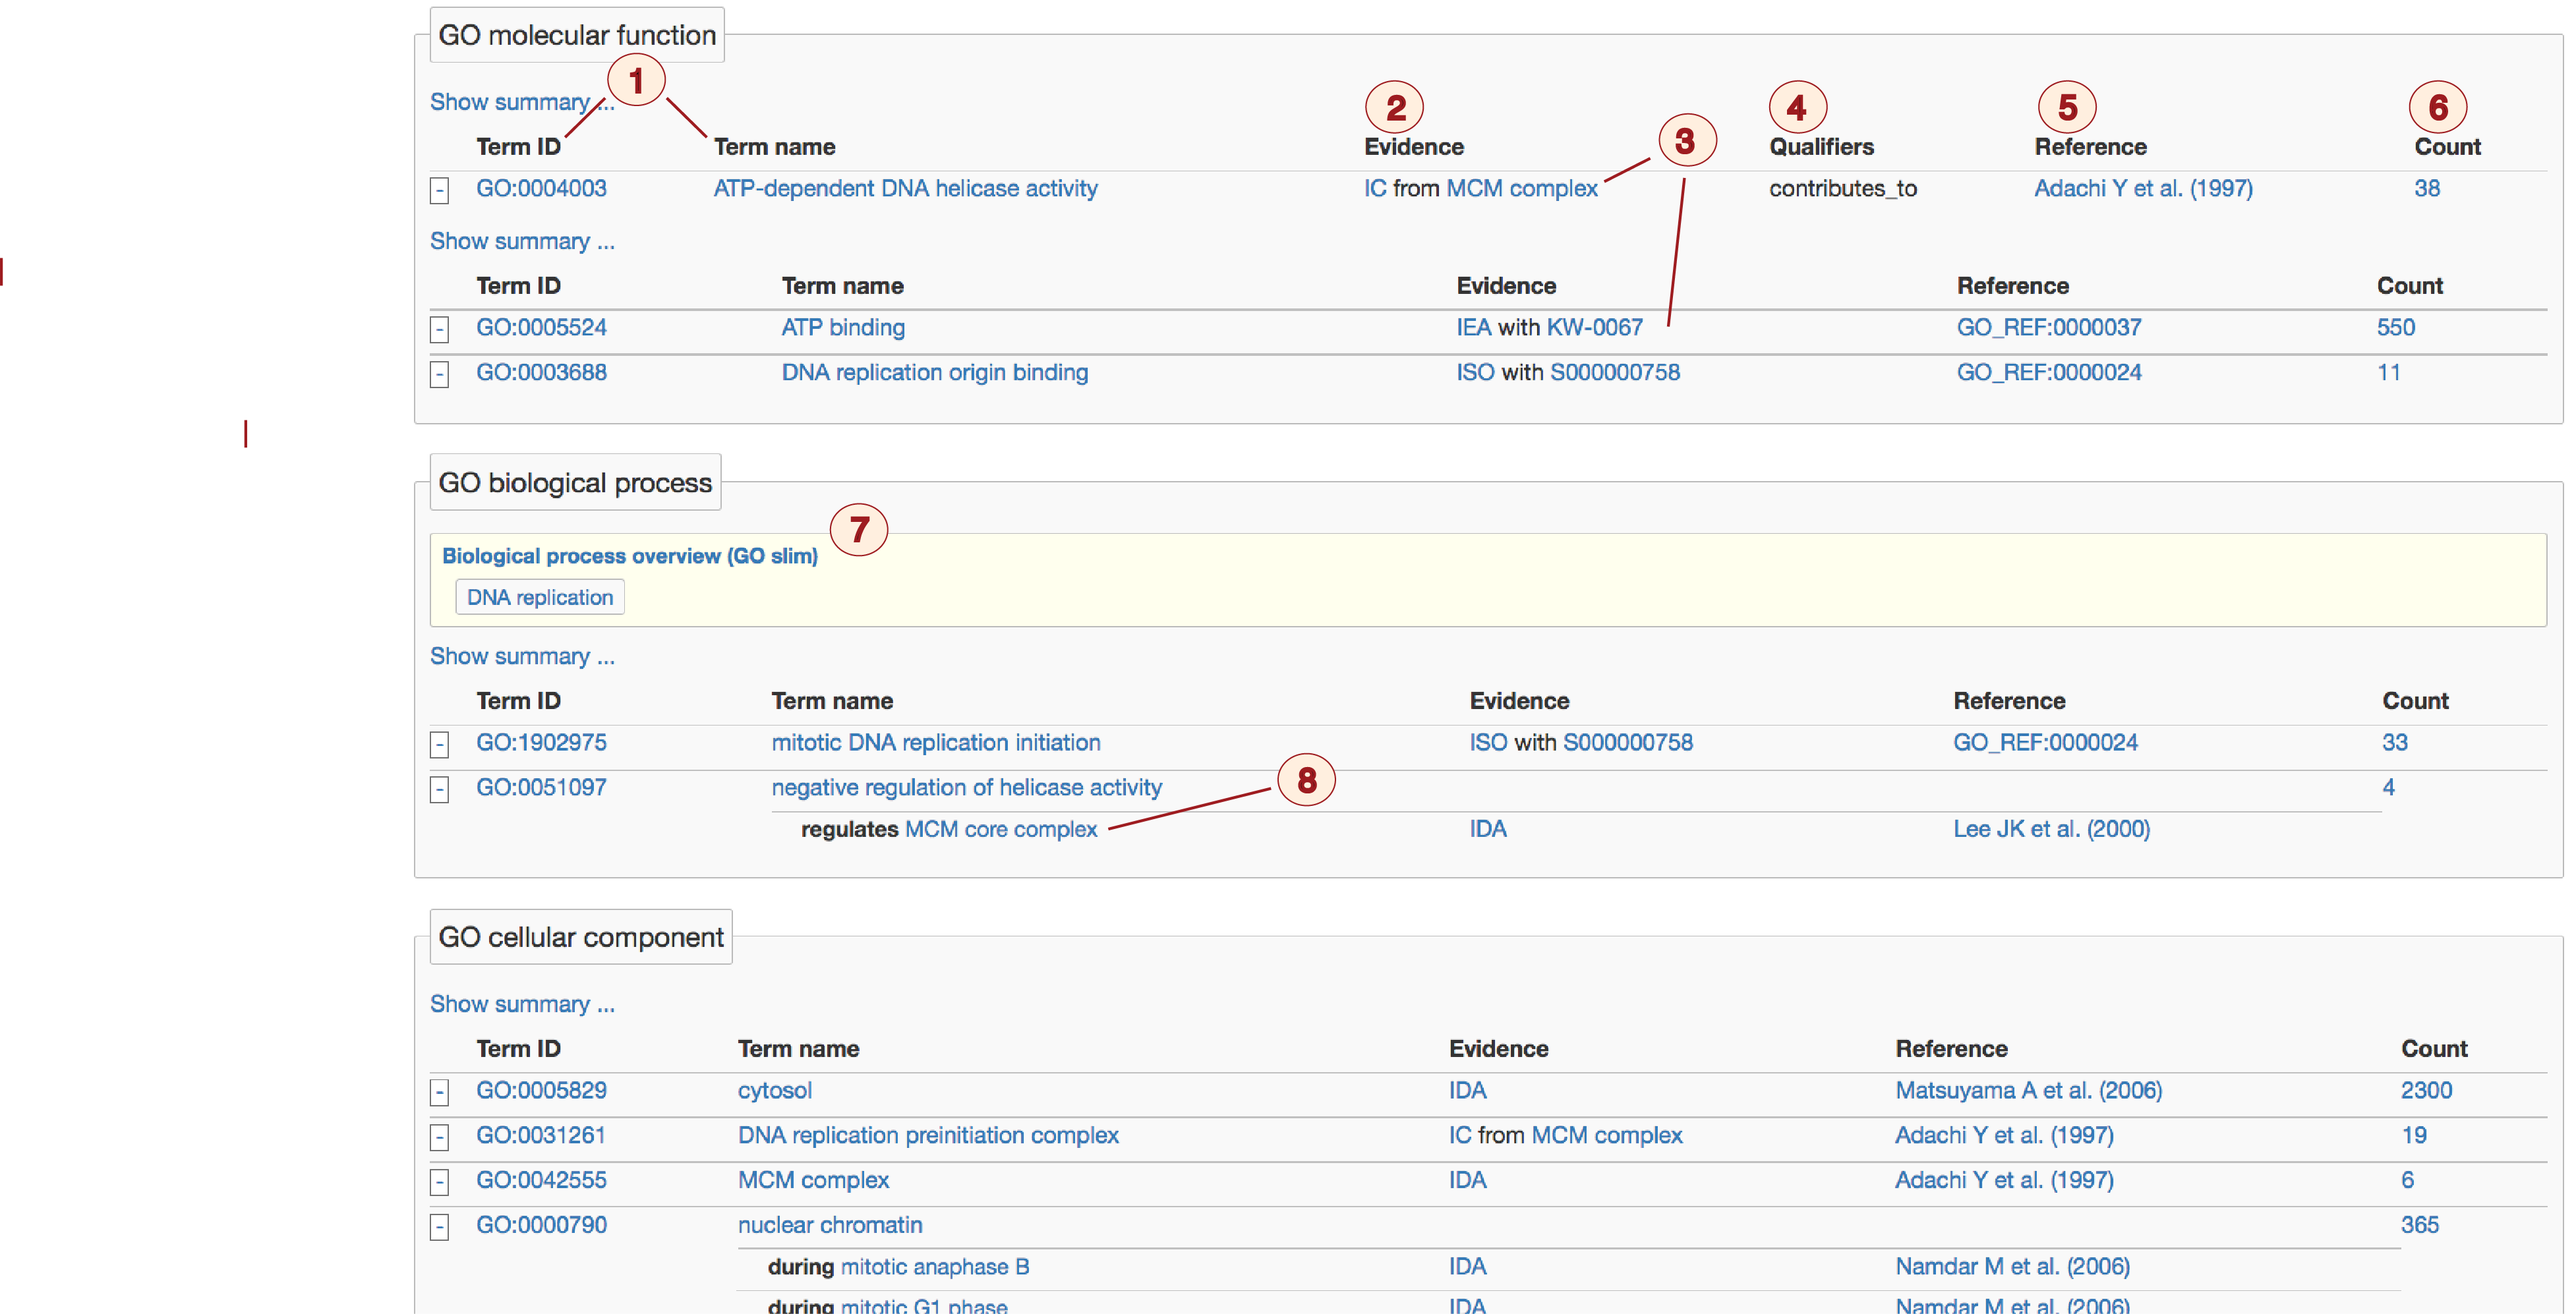
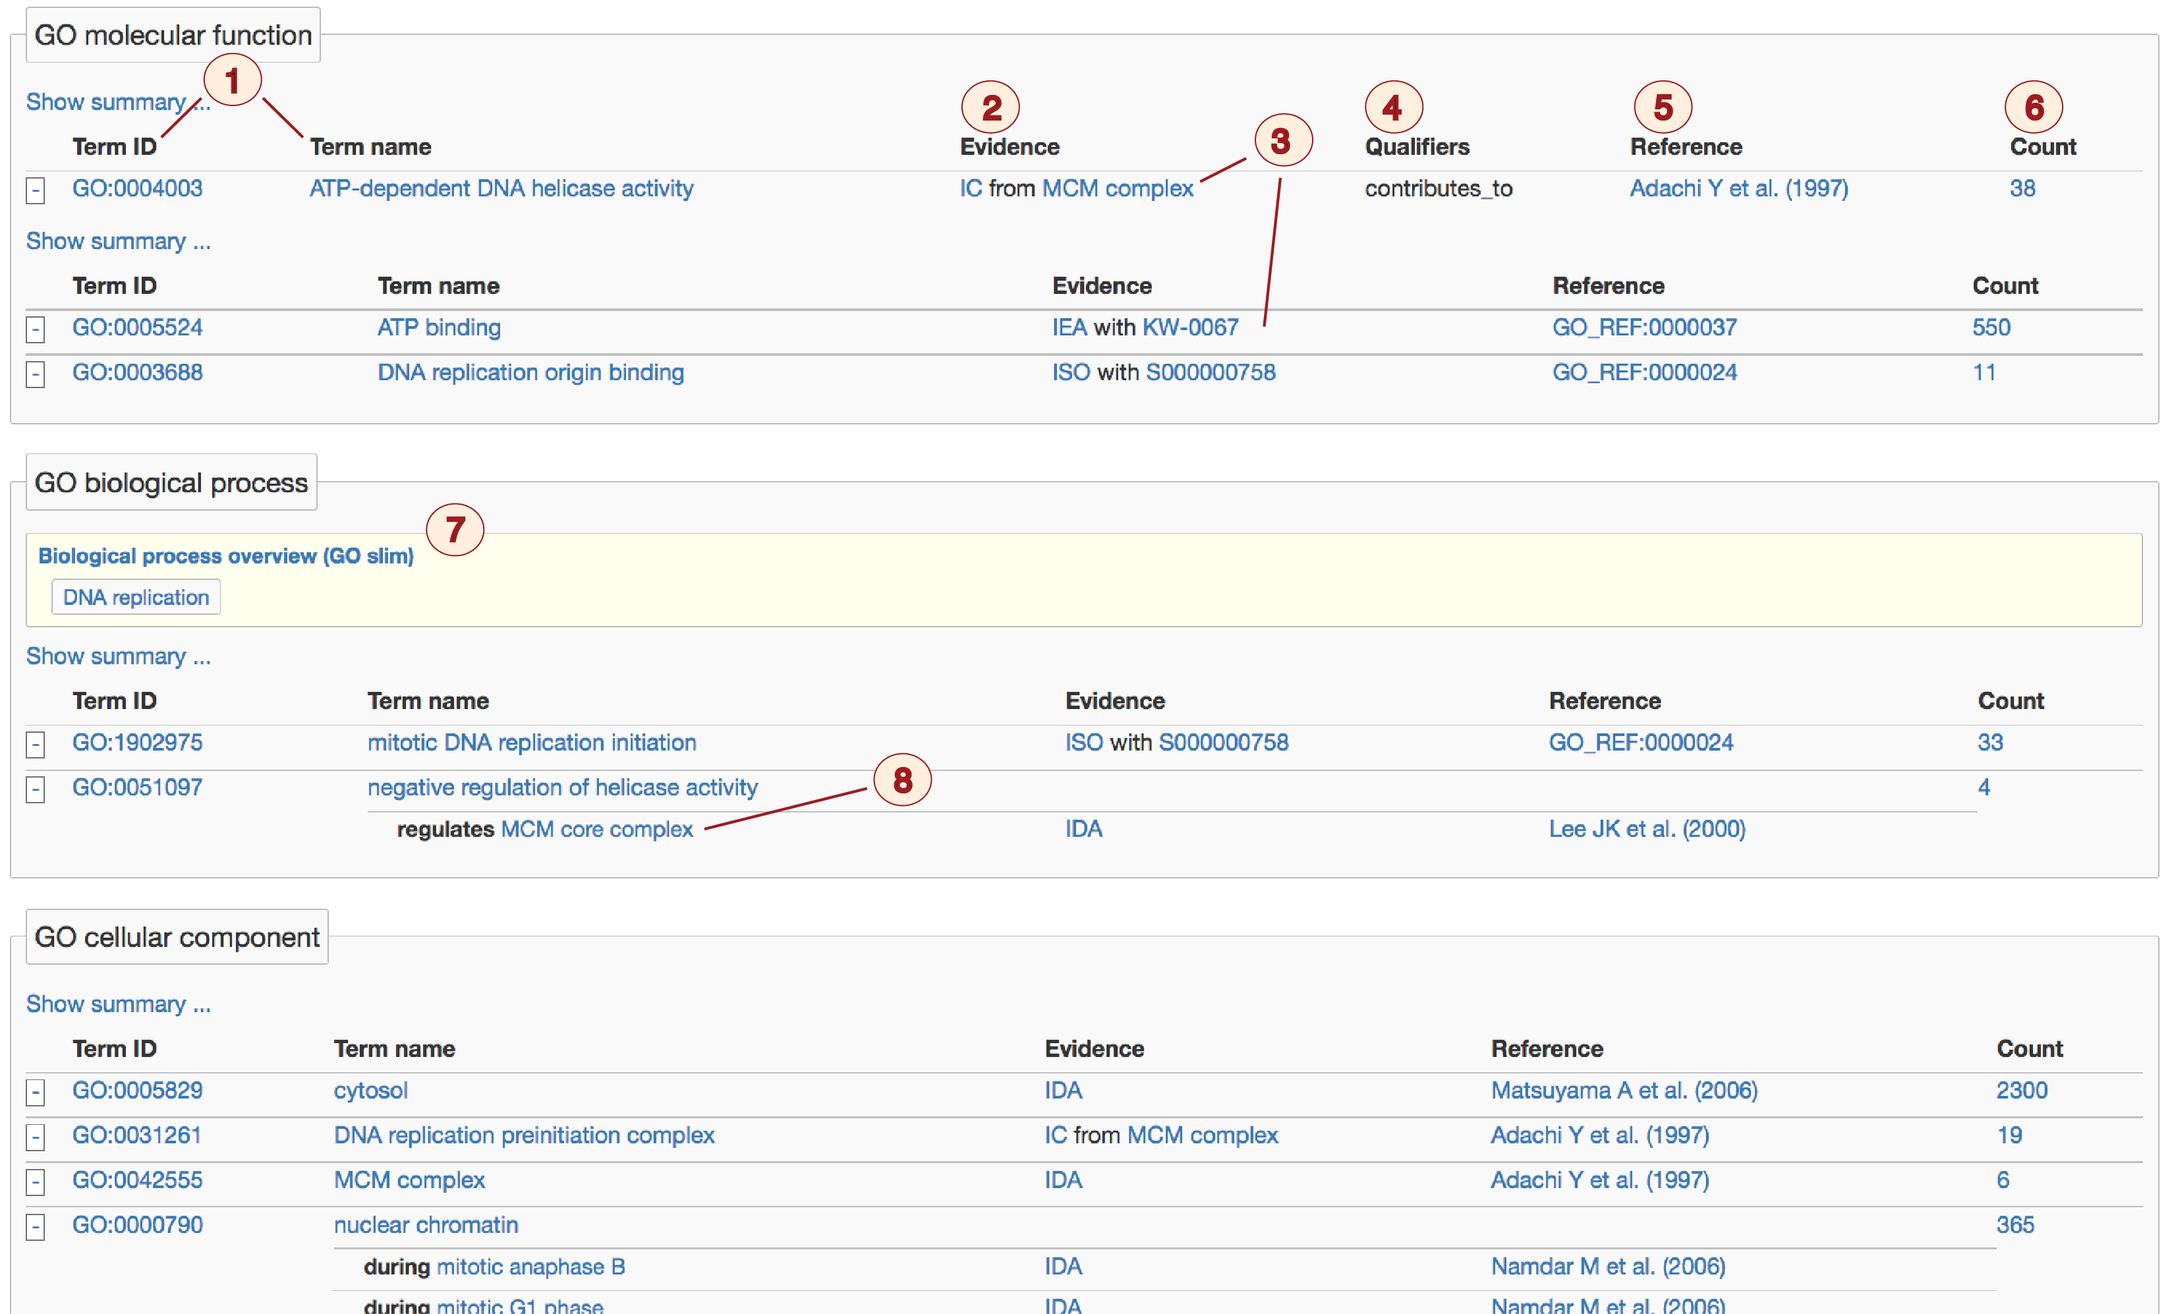
minor GO doc corrections

diff --git a/frontend/src/docs/documentation/gene-page-gene-ontology.md b/frontend/src/docs/documentation/gene-page-gene-ontology.md
@@ -94,11 +94,11 @@ than one paper), and annotations to terms hidden in the summary view:
 5.  The paper from which the annotation comes.
 6.  The number of genes annotated to the term, linked to an ontology
     term page as described above.
-6.  GO annotations may have [extensions](#ann_ext) to capture any of
-    several types of additional detail. *S. pombe* genes link to PomBase
-    gene pages.
 7.  [GO Slim](/browse-curation/fission-yeast-go-slim-terms) terms
     applicable to the gene.
+8.  GO annotations may have [extensions](#ann_ext) to capture any of
+    several types of additional detail. *S. pombe* genes link to PomBase
+    gene pages.
 
 **Term ID and name**
 
